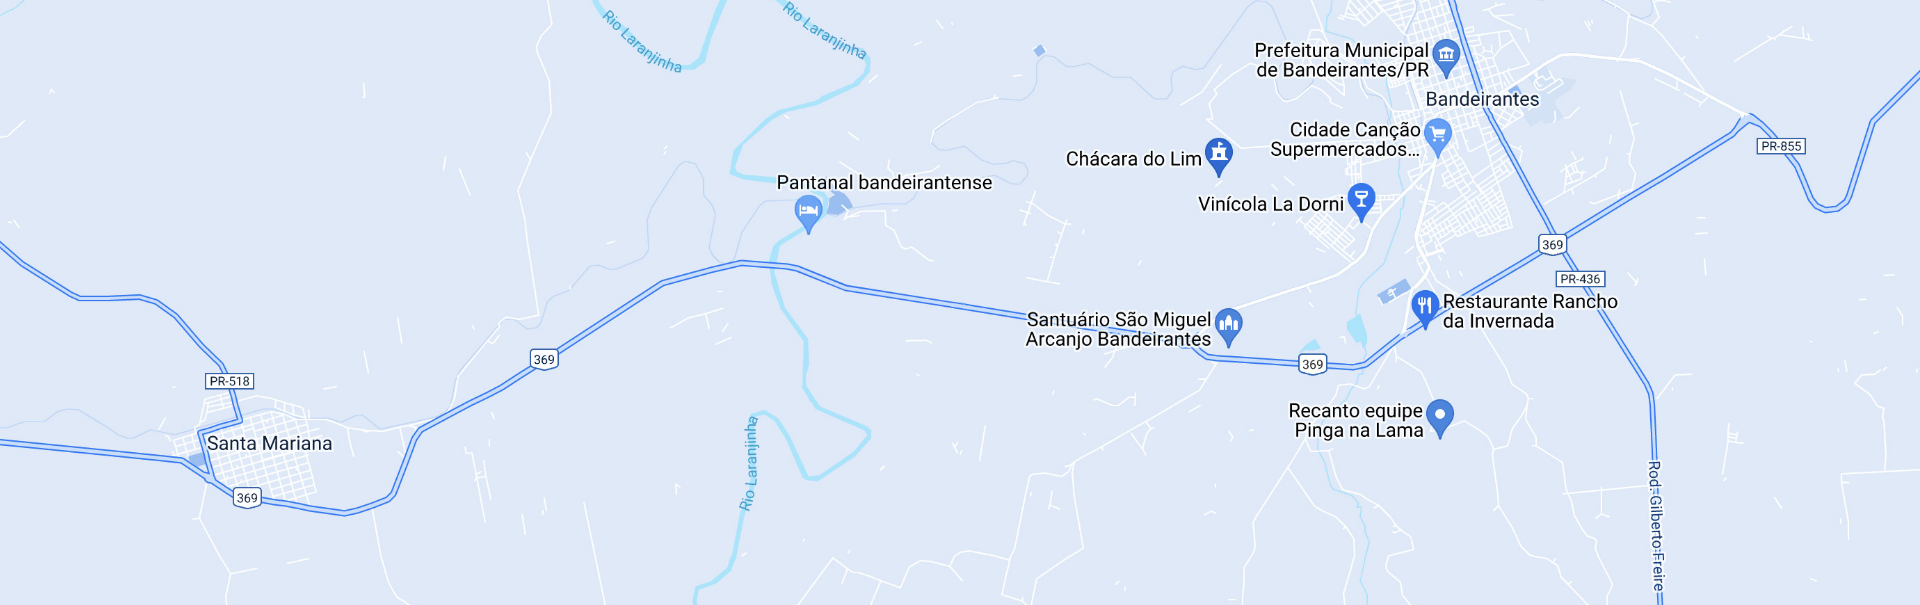
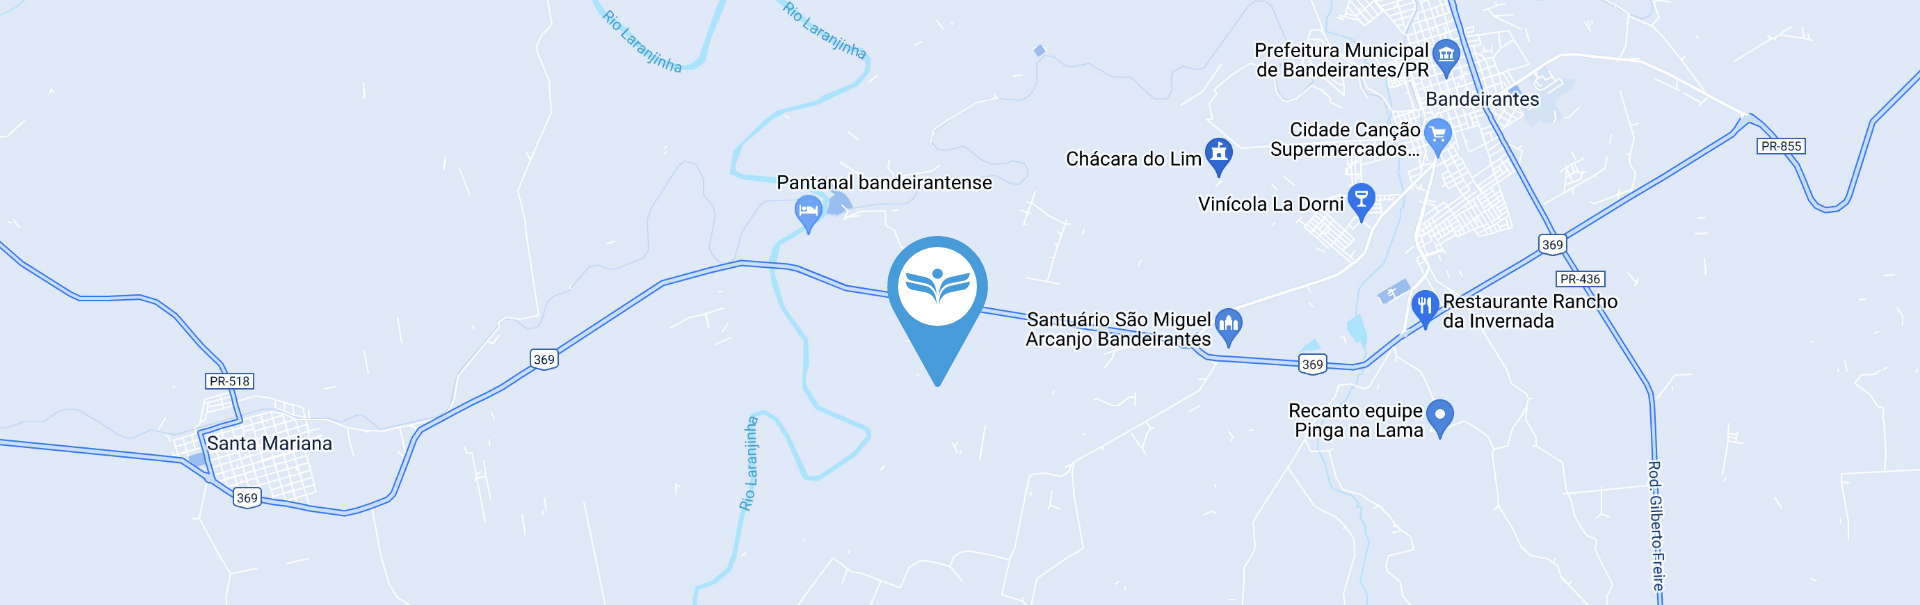
Adiciona seção de  localização

Changed region(s): [[0.4375, 0.3868, 0.5312, 0.6248]]

diff --git a/components/LocaliazcaoSection/styles.ts b/components/LocaliazcaoSection/styles.ts
@@ -6,14 +6,72 @@ export const Container = styled.section`
 
     display: flex;
     justify-content: center;
+    position: relative;
+    flex-wrap: wrap;
 `;
 
 export const Wrapper = styled.div`
+    background-color: ${props=>props.theme.secondary};
+    position: absolute;
+    width: 70vw;
+    height: 750px;
+    max-width: 800px;
+    border-radius: 12px;
+    padding: 30px;
 
+    display: flex;
+    align-items: center;
+    flex-direction: column;
+
+    gap: 500px;
 `;
 
 export const Mapa = styled.div`
+    top: 100px;
+    position: absolute;
     width: 100vw;
-    height: 800px;
+    height: 500px;
 	background: url('./assets/img/Mapa.png') no-repeat;
+    background-size: cover;
+    background-position: center;
+`;
+
+export const Localizacoes = styled.div`
+    display: flex;
+    justify-content: center;
+    align-items: center;
+    flex-direction: row;
+`;
+
+export const Localizacao = styled.div`
+    display: flex;
+    justify-content: center;
+    align-items: center;
+    flex-direction: column;
+    padding:50px;
+`;
+
+export const Title = styled.span`
+    font-size: 22px;
+    font-weight: 200;
+    color: ${props => props.theme.white};
+`;
+
+export const City = styled.span`
+    font-size: 24px;
+    font-weight: 800;
+    color: ${props => props.theme.primary};
+`;
+
+export const Km = styled.span`
+    font-size: 46px;
+    font-weight: 200;
+    color: ${props => props.theme.primary};
+`;
+
+export const Divider = styled.hr`
+    width: 1px;
+    height: 80px;
+    background-color: grey;
+    border:none;
 `;

diff --git a/components/LocaliazcaoSection/LocaliazcaoSection.tsx b/components/LocaliazcaoSection/LocaliazcaoSection.tsx
@@ -1,13 +1,32 @@
 import * as S from './styles';
+import { Title } from '../DescricaoSection/styles';
 
 export const LocaliazcaoSection = () => {
 	return (
 		<S.Container>
 			<S.Wrapper>
-				<S.Mapa>
-					<h1>njiknjkjbn</h1>
-				</S.Mapa>
+				<Title style={{ color: '#fff', fontSize: 42 }}>NOSSA LOCALIZAÇÃO</Title>
+				<S.Localizacoes>
+					<S.Localizacao>
+						<S.Title>DISTÂNCIA ATÉ</S.Title>
+						<S.City>LONDRINA</S.City>
+						<S.Km>97km</S.Km>
+					</S.Localizacao>
+					<S.Divider />
+					<S.Localizacao>
+						<S.Title>DISTÂNCIA ATÉ</S.Title>
+						<S.City>CURITIBA</S.City>
+						<S.Km>420km</S.Km>
+					</S.Localizacao>
+					<S.Divider />
+					<S.Localizacao>
+						<S.Title>DISTÂNCIA ATÉ</S.Title>
+						<S.City>SÃO PAULO</S.City>
+						<S.Km>442km</S.Km>
+					</S.Localizacao>
+				</S.Localizacoes>
 			</S.Wrapper>
+			<S.Mapa />
 		</S.Container>
 	);
 };

diff --git a/components/Menu/Menu.tsx b/components/Menu/Menu.tsx
@@ -8,6 +8,7 @@ import Youtube from '../../assets/img/icone_youtube.png';
 import Twi from '../../assets/img/icone_twitter.png';
 import Face from '../../assets/img/icone_facebook.png';
 import Whats from '../../assets/img/icone whatsapp.png';
+import CloseButton from '../../assets/svg/CloseButton.svg';
 
 export const Menu = () => {
 
@@ -33,7 +34,7 @@ export const Menu = () => {
             <S.WrapFirst onClick={() => setIsOpen(prev => !prev)}>
             <S.MenuLabel>MENU</S.MenuLabel>
             <S.WrapLines>
-                    <h1 style={{color: "white"}}>X</h1>
+                <S.Icon src={CloseButton} alt="" style={{width:20}}/>
                 </S.WrapLines>
             </S.WrapFirst>
             <S.Logo src={Logo} alt="" />

diff --git a/components/HeaderHome/styles.tsx b/components/HeaderHome/styles.tsx
@@ -3,15 +3,13 @@ import Image from 'next/image';
 
 export const Container = styled.section`
 	width: 100vw;
-	height: 100vh;
+	height: auto;
 	background: url('./assets/img/backgroundTopo.png') no-repeat;
 	background-size: cover;
 	display: flex;
 	justify-content: center;
-	@media (max-width: 767px) {
-		height: auto;
-		flex-direction: column;
-	}
+	padding-bottom: 200px;
+	flex-wrap: wrap;
 `;
 
 export const LeftContainer = styled.div`

diff --git a/components/BeneficiosSection/styles.ts b/components/BeneficiosSection/styles.ts
@@ -26,6 +26,7 @@ export const BeneficiosContainer = styled.div`
     margin-right: 15px;
     margin-top: 50px;
     margin-bottom: 50px;
+    flex-wrap: wrap;
 `;
 
 export const BeneficioWrapper = styled.div`
@@ -42,6 +43,4 @@ export const Paragraph = styled.p`
     font-color: ${props => props.theme.secondary};
     margin-top: 20px;
     text-align: center;
-
-
 `;
